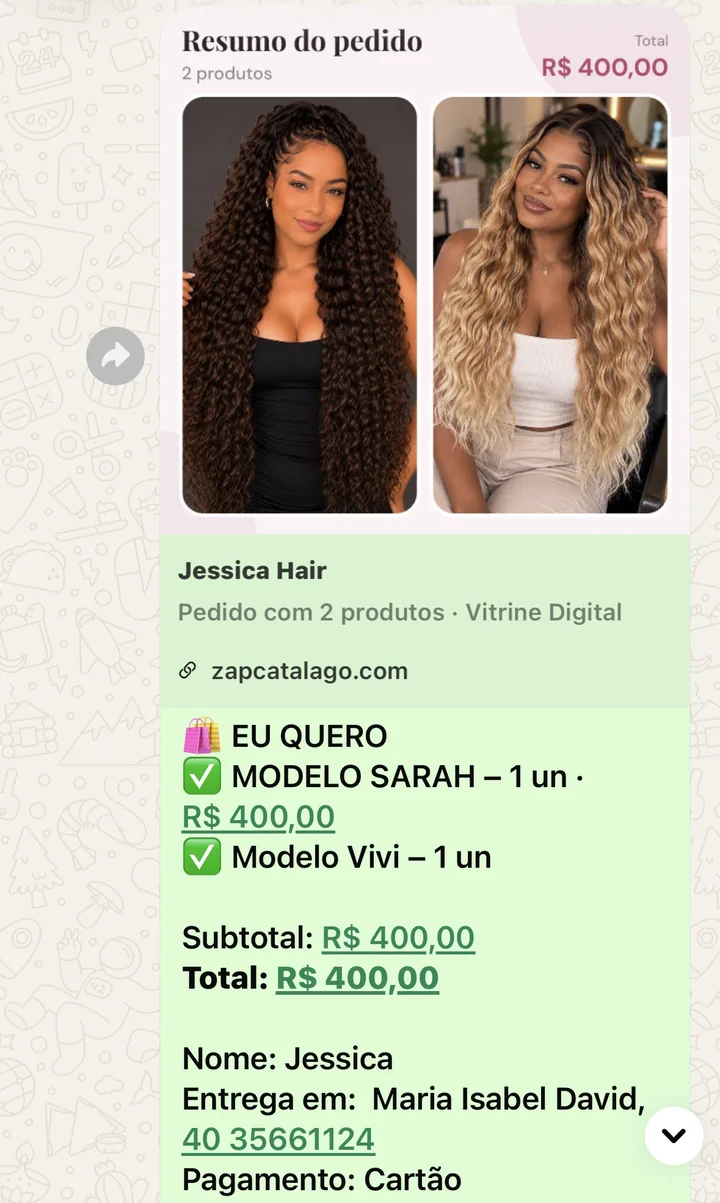
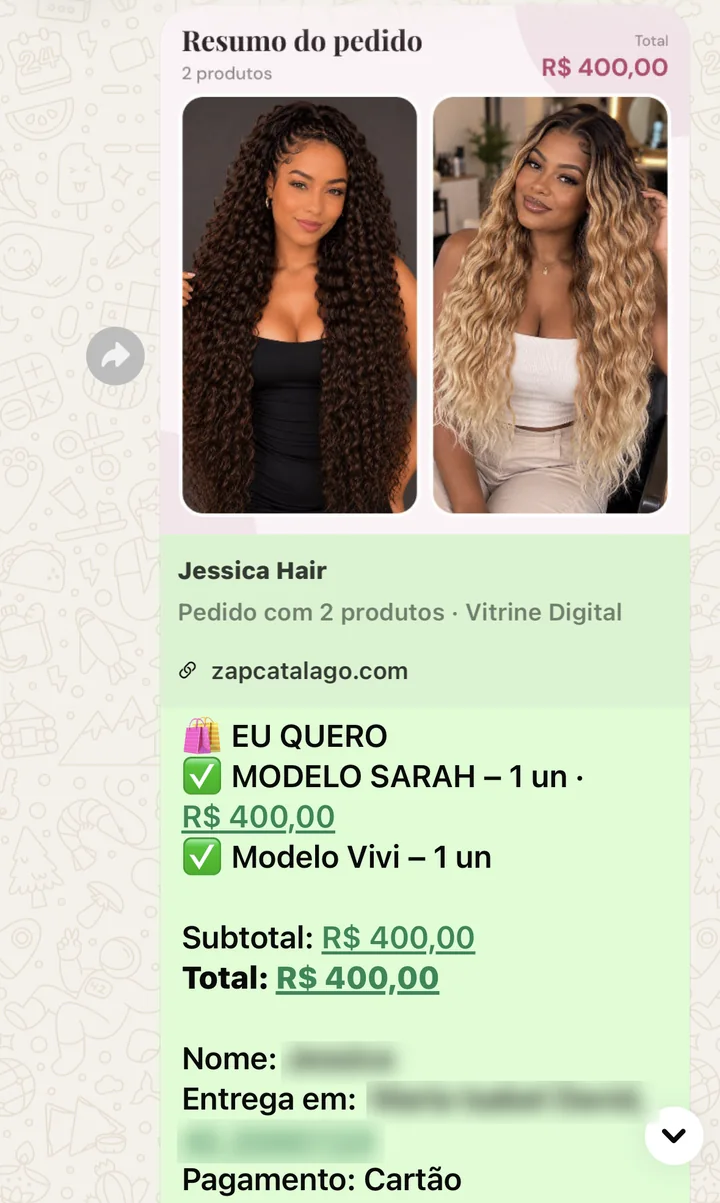
Quiz: dados do pedido borrados, cronômetro reinicia a cada visita, tira o roxo (oferta rosa, passo 1 cinza)
Claude-Session: https://claude.ai/code/session_01VYbtS9CpJQzPLhVhEw6fzo

Changed region(s): [[0.2444, 0.8612, 0.9167, 0.9842]]

diff --git a/public/quiz.html b/public/quiz.html
@@ -228,9 +228,9 @@ h1 em, h2 em { font-style: normal; color: var(--pink); }
 .vs-c ul { list-style: none; margin: 0; padding: 0; display: grid; gap: 8px; }
 .vs-c li { display: flex; gap: 10px; align-items: flex-start; font-size: 17px; font-weight: 600; line-height: 1.35; }
 .vs-c li i { font-style: normal; flex: none; width: 20px; height: 20px; border-radius: 50%; display: grid; place-items: center; font-size: 12.5px; font-weight: 900; margin-top: 1px; }
-.vs-sem { background: #F7EEF2; border: 1px solid #EBDDE3; color: #6E5A63; }
-.vs-sem h3 { color: #8A6B78; }
-.vs-sem li i { background: #E3D3DA; color: #8A6B78; }
+.vs-sem { background: #F3F3F3; border: 1px solid #E4E4E4; color: #6B6B6B; }
+.vs-sem h3 { color: #9A9A9A; }
+.vs-sem li i { background: #E2E2E2; color: #9A9A9A; }
 .vs-com { background: var(--branco); border: 2px solid var(--pink); box-shadow: var(--sh); }
 .vs-com h3 { color: var(--pink); }
 .vs-com li i { background: var(--pink); color: #fff; }
@@ -238,16 +238,16 @@ h1 em, h2 em { font-style: normal; color: var(--pink); }
 .ad-real span { width: 22px; height: 22px; border-radius: 50%; border: 2px solid #fff; display: grid; place-items: center; font-size: 12px; }
 .ad-card { margin-top: 16px; border-radius: 24px; overflow: hidden; background: var(--branco); }
 .ad-card img { display: block; width: 100%; height: auto; }
-.ad-antes { border: 2px solid #EBDDE3; }
+.ad-antes { border: 2px solid #E4E4E4; }
 .ad-depois { border: 2px solid var(--pink); box-shadow: var(--sh); }
 .ad-top { display: flex; align-items: center; gap: 10px; padding: 12px 14px; background: var(--rosa); }
-.ad-antes .ad-top { background: #F7EEF2; }
+.ad-antes .ad-top { background: #F3F3F3; }
 .ad-top i { font-style: normal; flex: none; width: 30px; height: 30px; border-radius: 50%; background: var(--pink); color: #fff; display: grid; place-items: center; font: 800 16px/1 "Inter", sans-serif; }
-.ad-antes .ad-top i { background: #8A6B78; }
+.ad-antes .ad-top i { background: #9A9A9A; }
 .ad-top b { flex: 1; font: 800 17px/1.25 var(--f); text-transform: uppercase; letter-spacing: .02em; color: var(--pink-d); }
-.ad-antes .ad-top b { color: #6E5A63; }
+.ad-antes .ad-top b { color: #6B6B6B; }
 .ad-seta { flex: none; width: 32px; height: 32px; border-radius: 50%; background: var(--pink); color: #fff; display: grid; place-items: center; font-size: 19px; font-weight: 900; }
-.ad-antes .ad-seta { background: #8A6B78; }
+.ad-antes .ad-seta { background: #9A9A9A; }
 .ad-tel { width: min(280px, 78%); margin: 16px auto; border-radius: 24px; overflow: hidden; border: 1px solid var(--line); box-shadow: 0 22px 40px -24px rgba(194,16,106,.5); }
 .ad-tela { position: relative; overflow: hidden; border-radius: 0; background: #fff; aspect-ratio: 9/17; }
 .ad-tela.ad-fixa { aspect-ratio: auto; background: #EFE7DE; }
@@ -307,13 +307,13 @@ h1 em, h2 em { font-style: normal; color: var(--pink); }
 .crono { margin-top: 14px; background: var(--rosa); box-shadow: none; padding: 10px 12px; }
 .crono b { font-size: 14.5px; color: var(--fg); }
 .crono-t span { background: var(--branco); min-width: 36px; font-size: 16px; }
-.preco { margin-top: 14px; background: #2B1220; color: #fff; border-radius: 22px; padding: 20px 18px; box-shadow: 0 24px 44px -28px rgba(43,18,32,.8); }
-.preco .por { color: #F9A8D1; }
-.preco .de { color: rgba(255,255,255,.6); } .preco .de s { color: rgba(255,255,255,.6); }
+.preco { margin-top: 14px; background: var(--grad); color: #fff; border-radius: 22px; padding: 20px 18px; box-shadow: 0 24px 44px -28px rgba(194,16,106,.8); }
+.preco .por { color: #fff; }
+.preco .de { color: rgba(255,255,255,.8); } .preco .de s { color: rgba(255,255,255,.8); }
 .preco .val { color: #fff; }
-.preco .val span { color: rgba(255,255,255,.7); }
-.dia { background: rgba(255,255,255,.1); color: #FFC2E1; font-size: 16px; font-weight: 800; }
-.paga { color: rgba(255,255,255,.72); font-weight: 600; font-size: 15.5px; }
+.preco .val span { color: rgba(255,255,255,.85); }
+.dia { background: rgba(255,255,255,.2); color: #fff; font-size: 16px; font-weight: 800; }
+.paga { color: rgba(255,255,255,.9); font-weight: 600; font-size: 15.5px; }
 .chamada { font-size: 17.5px; margin-top: 20px; }
 .oferta .btn.cta { margin-top: 14px; background: var(--grad); color: #fff; font-size: 16px; padding: 20px 16px; box-shadow: 0 16px 30px -14px rgba(233,30,133,.8); }
 .garantias { display: flex; flex-wrap: wrap; justify-content: center; gap: 6px 14px; margin-top: 14px; font-size: 14.5px; color: var(--muted); }
@@ -341,11 +341,11 @@ h2, .oferta h2 { font-size: clamp(23px, 6.6vw, 29px); }
 .pensa { margin: 16px 0 0; background: var(--branco); border: 1px solid var(--line); border-radius: 16px; padding: 14px 16px; text-align: left; font-size: 17px; line-height: 1.5; color: var(--fg); }
 .pensa b { display: block; color: var(--pink-d); font-weight: 800; }
 .pensa p { margin: 6px 0 0; }
-.expira { margin-top: 18px; background: #2B1220; color: #fff; border-radius: 22px; padding: 16px 18px; text-align: center; }
-.expira-t { margin: 0 0 10px; font-size: 17px; font-weight: 800; letter-spacing: .04em; text-transform: uppercase; color: #FFC2E1; }
+.expira { margin-top: 18px; background: var(--grad); color: #fff; border-radius: 22px; padding: 16px 18px; text-align: center; }
+.expira-t { margin: 0 0 10px; font-size: 17px; font-weight: 800; letter-spacing: .04em; text-transform: uppercase; color: #fff; }
 .expira .crono-t { justify-content: center; gap: 8px; }
-.expira .crono-t span { min-width: 64px; font-size: 30px; padding: 8px 6px 6px; background: rgba(255,255,255,.12); color: #fff; }
-.expira .crono-t span small { color: rgba(255,255,255,.7); font-size: 11px; }
+.expira .crono-t span { min-width: 64px; font-size: 30px; padding: 8px 6px 6px; background: rgba(255,255,255,.2); color: #fff; }
+.expira .crono-t span small { color: rgba(255,255,255,.9); font-size: 11px; }
 .expira-s { margin: 10px 0 0; font-size: 15.5px; line-height: 1.4; color: rgba(255,255,255,.85); }
 .aviso { margin-top: 14px; background: #FFF4D6; border: 1px solid #F5D98A; border-radius: 18px; padding: 14px 16px; color: #5A3B00; font-size: 16.5px; line-height: 1.45; text-align: center; }
 .aviso p { margin: 0; } .aviso p + p { margin-top: 4px; }
@@ -674,8 +674,8 @@ p, li, .pensa p, .sub { text-wrap: pretty; }
    CHECKOUT: link de pagamento da Kiwify do botão final.
    BONUS_FIM: data e hora em que os bônus acabam (horário de Brasília). O cronômetro conta até essa data, que é a mesma para todo mundo
      e não reinicia. Quando o prazo acaba, o cronômetro e os bônus somem sozinhos. Para uma nova campanha, troque a data. null = sem cronômetro.
-   BONUS_MINUTOS: cronômetro curto por visitante (ex.: 15). Começa quando a pessoa chega na oferta, fica salvo no aparelho dela
-     (recarregar não reinicia) e, quando zera, os bônus saem da oferta para ela. Use null para voltar ao prazo fixo BONUS_FIM.
+   BONUS_MINUTOS: cronômetro curto por visitante (ex.: 15). Começa quando a pessoa chega na oferta, fica salvo na aba aberta
+     (recarregar não reinicia; numa nova visita começa de novo) e, quando zera, os bônus saem da oferta para ela. Use null para voltar ao prazo fixo BONUS_FIM.
    PRECO_DE: preço "De" riscado. Deixe null para mostrar só "Por apenas R$ 47/mês" (use só se for um preço real). */
 const CONFIG = {
   VIDEOS: {
@@ -759,10 +759,10 @@ const CONFIG = {
     const curto = Number(CONFIG.BONUS_MINUTOS) > 0;
     let fim;
     if (curto) {
-      // por visitante: começa na primeira vez que a oferta aparece e fica salvo no aparelho (não reinicia ao recarregar)
+      // por visitante: começa na primeira vez que a oferta aparece e fica salvo na aba (recarregar não reinicia; numa nova visita começa de novo)
       const K = 'zapcat-bonus-inicio'; let ini = null;
-      try { ini = +localStorage.getItem(K) || null; } catch (e) {}
-      const arma = () => { if (ini) return; ini = Date.now(); try { localStorage.setItem(K, String(ini)); } catch (e) {} };
+      try { ini = +sessionStorage.getItem(K) || null; } catch (e) {}
+      const arma = () => { if (ini) return; ini = Date.now(); try { sessionStorage.setItem(K, String(ini)); } catch (e) {} };
       if (!ini) { if (document.body.classList.contains('oferta-on')) arma(); else new MutationObserver((m, o) => { if (document.body.classList.contains('oferta-on')) { arma(); o.disconnect(); } }).observe(document.body, { attributes: true, attributeFilter: ['class'] }); }
       Object.defineProperty(window, '__bonusFim', { get: () => ini ? ini + CONFIG.BONUS_MINUTOS * 60000 : Date.now() + CONFIG.BONUS_MINUTOS * 60000 });
       cr.querySelectorAll('.crono-t span').forEach((sp, i) => { if (i < 2) sp.hidden = true; });
@@ -955,7 +955,7 @@ const CONFIG = {
     if (matchMedia('(prefers-reduced-motion: reduce)').matches) return;
     const c = document.getElementById('confete'), x = c.getContext('2d'), dpr = Math.min(devicePixelRatio || 1, 2);
     c.hidden = false; c.width = innerWidth * dpr; c.height = innerHeight * dpr; x.scale(dpr, dpr);
-    const cores = ['#E91E85', '#FF4FA6', '#FFC83D', '#2EC4B6', '#7B61FF', '#FFFFFF'];
+    const cores = ['#E91E85', '#FF4FA6', '#FFC83D', '#2EC4B6', '#FFFFFF'];
     const ps = Array.from({ length: 140 }, () => ({ x: innerWidth / 2 + (Math.random() - .5) * 80, y: innerHeight * .35, vx: (Math.random() - .5) * 14, vy: -Math.random() * 14 - 4, r: Math.random() * 6 + 4, a: Math.random() * 6, va: (Math.random() - .5) * .4, c: cores[(Math.random() * cores.length) | 0] }));
     const t0 = performance.now();
     (function loop(t) {
